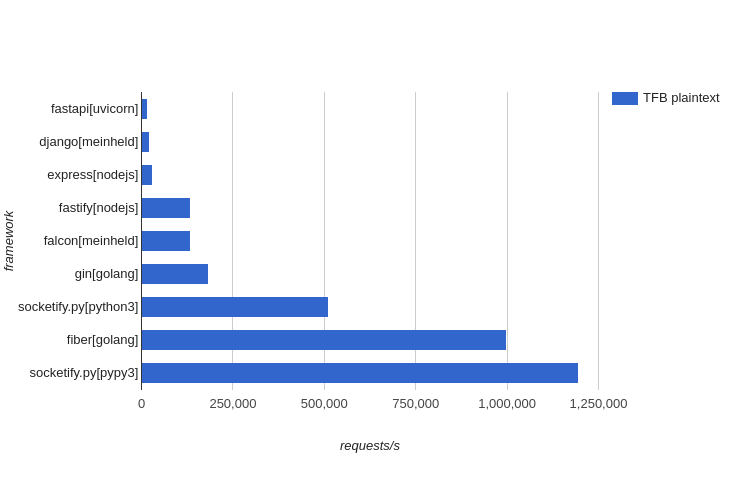
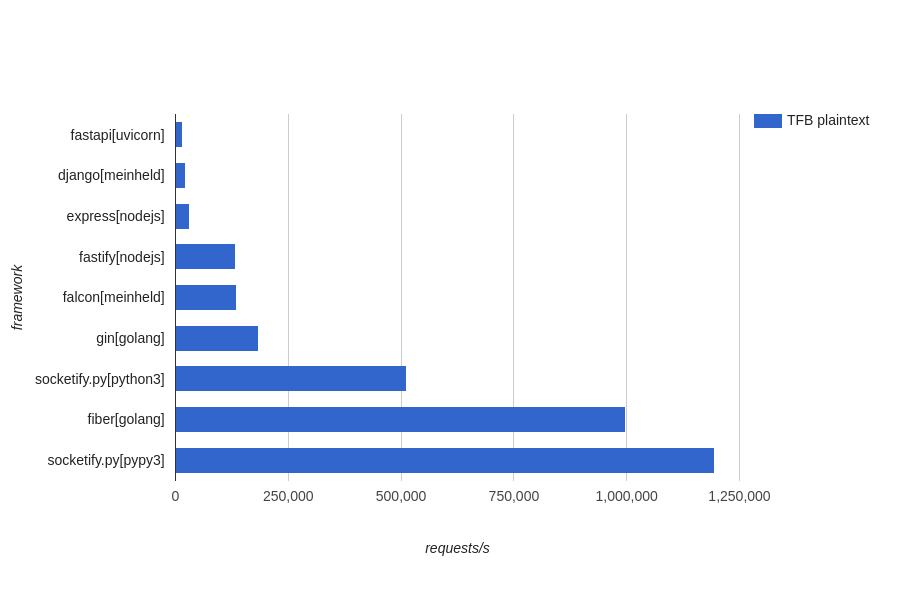
update bench section

diff --git a/README.md b/README.md
@@ -55,26 +55,29 @@ We created and adapted the full C API from [uNetworking/uWebSockets](https://git
 Join Github [`Discussions`](https://github.com/cirospaciari/socketify.py/discussions) or [`Discord`](https://discord.socketify.dev/) for help and have a look at the development progress.
 
 ## :zap: Benchmarks
-HTTP requests per second (Linux x64)
+Socketify WebFramework HTTP requests per second (Linux x64)
 
-![image](https://raw.githubusercontent.com/cirospaciari/socketify.py/main/misc/bench-bar-graph.svg)
+![image](https://raw.githubusercontent.com/cirospaciari/socketify.py/main/misc/bench-bar-graph-general.png)
+
+WSGI Server requests per second (Linux x64)
+
+![image](https://raw.githubusercontent.com/cirospaciari/socketify.py/main/misc/bench-bar-graph-wsgi.png)
+
+ASGI Server requests per second (Linux x64)
+
+![image](https://raw.githubusercontent.com/cirospaciari/socketify.py/main/misc/bench-bar-graph-asgi.png)
 
 WebSocket messages per second (Linux x64)
 
-![image](https://raw.githubusercontent.com/cirospaciari/socketify.py/main/misc/ws-bar-graph.svg)
+![image](https://raw.githubusercontent.com/cirospaciari/socketify.py/main/misc/bench-bar-graph-ws.png)
 
 
-Socketify got almost 900k messages/s with PyPy3 and 860k with Python3 the same performance as [Bun](https://bun.sh) that also uses uWebSockets, Falcon at 35k messages/s and Falcon with PyPy3 improves into 56k messages/s, node.js manages 192k.
-
-Runtime versions: PyPy3 7.3.9, Python 3.10.7, node v16.17.0, bun v0.2.2<br/>
-Framework versions: gunicorn 20.1.0 + uvicorn 0.19.0, socketify alpha, gunicorn 20.1.0 + falcon 3.1.0, robyn 0.18.3<br/>
-Http tested with oha -c 40 -z 5s http://localhost:8000/ (1 run for warm-up and 3 runs average for testing)<br/>
+Http tested with TFB tool plaintext benchmark<br/>
 WebSocket tested with [Bun.sh](https://bun.sh) bench chat-client <br/>
-Source code in [bench](https://github.com/cirospaciari/socketify.py/tree/main/bench)<br/>
+Source code in [bench](https://github.com/cirospaciari/socketify.py/tree/main/bench) and in [TechEmPower](https://github.com/TechEmpower/FrameworkBenchmarks)<br/>
 
 Machine OS: Debian GNU/Linux bookworm/sid x86_64 Kernel: 6.0.0-2-amd64 CPU: Intel i7-7700HQ (8) @ 3.800GHz Memory: 32066MiB 
 
-> Today socketify has get 30% performance hit due to workarounds between asyncio + libuv, so we will got even faster! See more info in [this issue](https://github.com/cirospaciari/socketify.py/issues/18), Python3 and PyPy3 performance will improve when we migrate to [HPy](https://github.com/cirospaciari/socketify.py/issues/16). In TechEmPower paintext benchmarks we are the fastest in active web framework for Python/PyPy with more than 2 millions of req/s, followed by [Robyn](https://github.com/sansyrox/robyn) with almost 1.2 million req/s and [Falcon](https://github.com/falconry/falcon/tree/master/falcon) using meinheld with about 560k req/s.
 ## 📦 Installation
 For macOS x64 & Silicon, Linux x64, Windows
 
